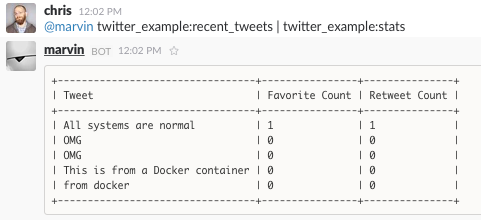
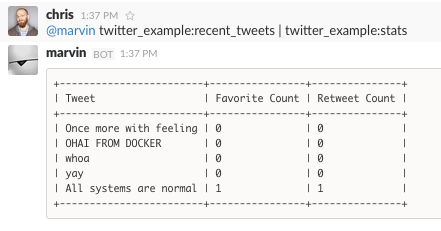
Rework the "input handling" section
Now, we create the "recent_tweets" command first, then the "stats"
command. This is a more natural way to deal with the topic.

diff --git a/src/writing_a_command_bundle/code/stats_command/stats.rb b/src/writing_a_command_bundle/code/stats_command/stats.rb
@@ -1,24 +1,27 @@
 #!/usr/bin/env ruby
 
+require 'bundler/setup'
 require 'twitter'
 require 'json'
 
+account = ENV['TWITTER_DEFAULT_ACCOUNT'].upcase # <1>
 client = Twitter::REST::Client.new(
-  consumer_key: ENV["TWITTER_CONSUMER_KEY"],
-  consumer_secret: ENV["TWITTER_CONSUMER_SECRET"],
-  access_token: ENV["TWITTER_ACCESS_TOKEN"],
-  access_token_secret: ENV["TWITTER_ACCESS_TOKEN_SECRET"])
+  consumer_key: ENV["TWITTER_CONSUMER_KEY_#{account}"],
+  consumer_secret: ENV["TWITTER_CONSUMER_SECRET_#{account}"],
+  access_token: ENV["TWITTER_ACCESS_TOKEN_#{account}"],
+  access_token_secret: ENV["TWITTER_ACCESS_TOKEN_SECRET_#{account}"])
 
-tweet = if ARGV.length == 1 # <1>
-           ARGV[0]
-         else
-           tweet = JSON.parse(STDIN.read) # <2>
-           tweet["url"]
-         end
+tweet = if ENV['COG_ARGC'] == "1" # <2>
+          ENV['COG_ARGV_0']
+        else
+          tweet = JSON.parse(STDIN.read) # <3>
+          tweet["url"]
+        end
 
-tweet = client.status(tweet) # <3>
-puts <<-EOM
-URL: #{tweet.url}
-Favorites: #{tweet.favorite_count}
-Retweets: #{tweet.retweet_count}
-EOM
+tweet = client.status(tweet) # <4>
+
+puts "COG_TEMPLATE: stats"
+puts "JSON"
+puts JSON.generate({message: tweet.full_text,
+                    favorites: tweet.favorite_count,
+                    retweets: tweet.retweet_count})

diff --git a/src/writing_a_command_bundle/code/stats_command/recent_tweets.rb b/src/writing_a_command_bundle/code/stats_command/recent_tweets.rb
@@ -1,0 +1,20 @@
+#!/usr/bin/env ruby
+
+require 'bundler/setup'
+require 'twitter'
+require 'json'
+
+account = (ENV['COG_OPT_AS'] ? ENV['COG_OPT_AS'] : ENV['TWITTER_DEFAULT_ACCOUNT']).upcase # <1>
+client = Twitter::REST::Client.new(
+  consumer_key: ENV["TWITTER_CONSUMER_KEY_#{account}"],
+  consumer_secret: ENV["TWITTER_CONSUMER_SECRET_#{account}"],
+  access_token: ENV["TWITTER_ACCESS_TOKEN_#{account}"],
+  access_token_secret: ENV["TWITTER_ACCESS_TOKEN_SECRET_#{account}"])
+
+tweets = client.user_timeline(count: 5).map do |tweet| # <2>
+  {message: tweet.full_text, url: tweet.url}
+end
+
+puts "COG_TEMPLATE: tweet" # <3>
+puts "JSON"
+puts JSON.generate(tweets) # <4>
